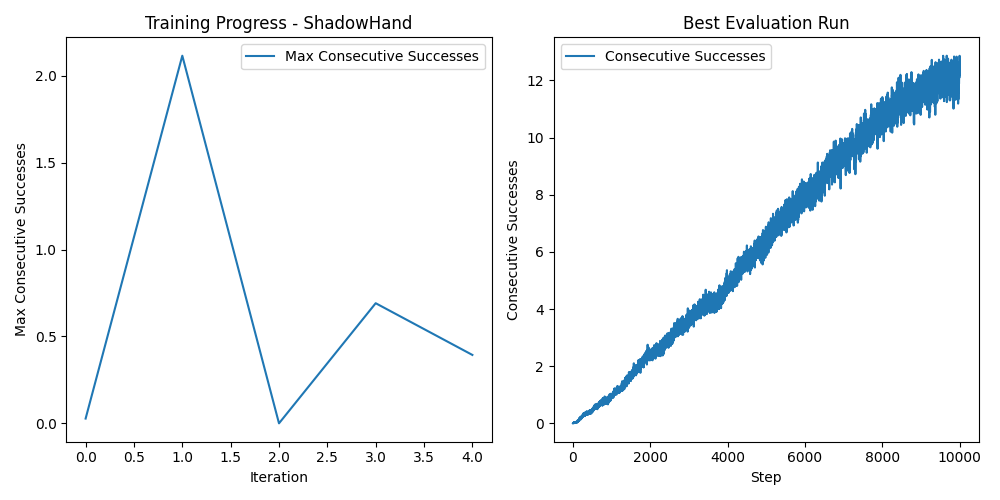
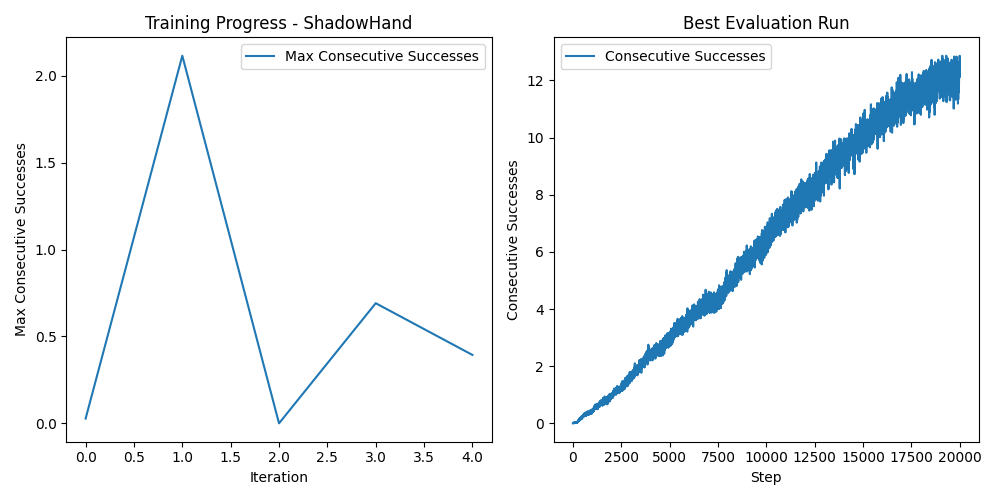
update plotting scripts to use step number

diff --git a/custom_scripts/eureka_task_processor.py b/custom_scripts/eureka_task_processor.py
@@ -2,13 +2,29 @@ import os
 import yaml
 import glob
 from typing import Dict, List, Tuple, Optional
-
-from eureka.utils.file_utils import load_tensorboard_logs
+from collections import defaultdict
+from tensorboard.backend.event_processing.event_accumulator import EventAccumulator
 
 
 def get_task_name_from_path(task_folder: str) -> str:
     """Extract a clean task name from the folder path for naming results"""
     return os.path.basename(os.path.normpath(task_folder))
+
+
+def load_tensorboard_logs_with_steps(path):
+    """Load tensorboard logs with both values and step numbers"""
+    data = defaultdict(list)
+    steps = defaultdict(list)
+    event_acc = EventAccumulator(path)
+    event_acc.Reload()  # Load all data written so far
+
+    for tag in event_acc.Tags()["scalars"]:
+        events = event_acc.Scalars(tag)
+        for event in events:
+            data[tag].append(event.value)
+            steps[tag].append(event.step)
+    
+    return data, steps
 
 
 class EurekaTaskProcessor:
@@ -93,13 +109,18 @@ class EurekaTaskProcessor:
                     
                     # Load tensorboard logs
                     try:
-                        logs = load_tensorboard_logs(summary_path)
+                        logs, steps = load_tensorboard_logs_with_steps(summary_path)
                         if "consecutive_successes" not in logs:
                             print(f"Warning: No consecutive_successes found in {summary_path}")
                             continue
                             
                         max_consecutive_successes = max(logs["consecutive_successes"])
-                        iter_policies.append((max_consecutive_successes, policy_folder, logs))
+                        # Include both values and steps in the logs dictionary
+                        combined_logs = {
+                            key: {"values": values, "steps": steps[key]} 
+                            for key, values in logs.items()
+                        }
+                        iter_policies.append((max_consecutive_successes, policy_folder, combined_logs))
                     except Exception as e:
                         print(f"Warning: Error loading tensorboard logs from {summary_path}: {e}")
                         continue

diff --git a/custom_scripts/plot_successes.py b/custom_scripts/plot_successes.py
@@ -50,8 +50,10 @@ def generate_plots(task_folder: str):
             _, _, best_eval_logs = max(eval_policies, key=lambda x: x[0])
             
             plt.subplot(1, 2, 2)
-            x = range(len(best_eval_logs['consecutive_successes']))
-            plt.plot(x, best_eval_logs['consecutive_successes'], label='Consecutive Successes')
+            consecutive_successes = best_eval_logs['consecutive_successes']
+            x = consecutive_successes['steps']  # Use actual step numbers
+            y = consecutive_successes['values']  # Use values
+            plt.plot(x, y, label='Consecutive Successes')
             plt.xlabel('Step')
             plt.ylabel('Consecutive Successes')
             plt.title('Best Evaluation Run')
